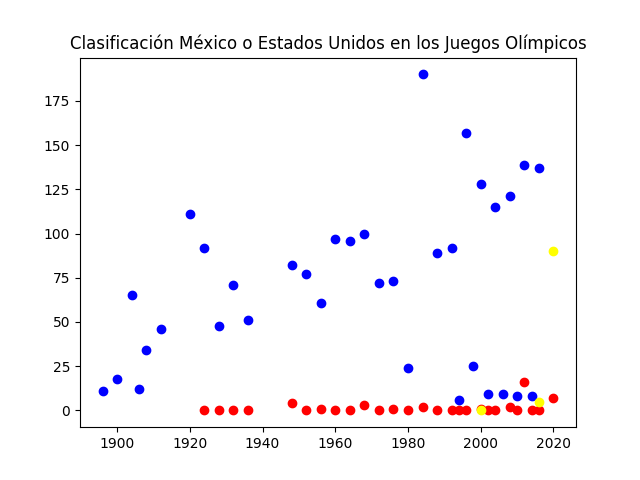
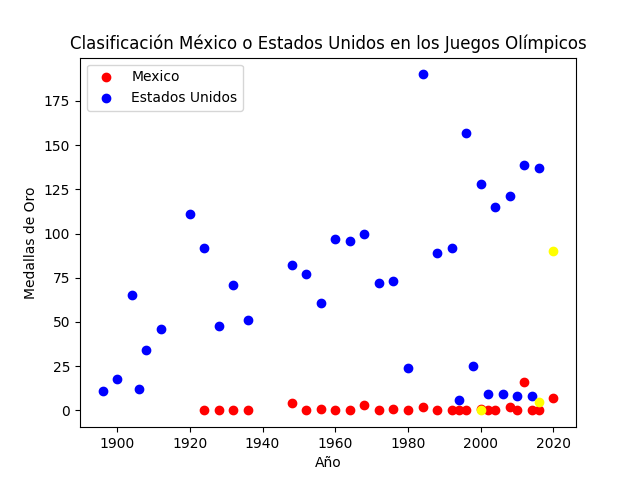
practica 6

Changed region(s): [[0.1562, 0.125, 0.375, 0.2188], [0.0312, 0.375, 0.0625, 0.625], [0.5, 0.9375, 0.5312, 0.9688]]

diff --git a/6-LinearRegression.py b/6-LinearRegression.py
@@ -1,0 +1,64 @@
+import numbers
+import pandas as pd
+import os
+import matplotlib.pyplot as plt
+from datetime import datetime
+from tabulate import tabulate
+import statsmodels.api as sm
+
+def print_tabulate(df: pd.DataFrame):
+    print(tabulate(df, headers=df.columns, tablefmt='orgtbl'))
+
+
+def transform_dates(df,x):
+    if isinstance(df[x][0], numbers.Number):
+        return df[x]
+    else:
+        return df_usa_año_int
+
+def linear_regression(df,x,y):
+
+    fixed_x = transform_dates(df, x)
+    model= sm.OLS(df[y],sm.add_constant(fixed_x)).fit()
+    print(model.summary())
+    print(fixed_x)
+    coef = pd.read_html(model.summary().tables[1].as_html(),header=0,index_col=0)[0]['coef']
+    df.plot(x=x,y=y, kind='scatter')
+    plt.plot(df[x],[pd.DataFrame.mean(df[y]) for _ in fixed_x.items()], color='green')
+    plt.plot(df[x],[ coef.values[1] * x + coef.values[0] for _, x in fixed_x.items()], color='red')
+    plt.title("Regresion Lineal: Medallas de oro de Estados Unidos")
+    plt.xticks(rotation='vertical',fontsize=5)
+    if not os.path.exists("./graficas/Practica6"):
+        os.mkdir("./graficas/Practica6")
+    plt.savefig("./graficas/Practica6/LR.png")
+    plt.show()
+    plt.close()
+
+df = pd.read_csv('./csv/olimpicos_limpio.csv')
+#df["Juegos"] = df["Año"].astype(str) + " " + df["Temporada"]
+
+df = pd.get_dummies(df, drop_first=False, columns=['Medalla'])
+df = df.drop(['Medalla_Sin Medalla'], axis=1)
+
+df_usa = df[df["Equipo"]=="United States"]
+df_usa = df_usa.groupby(["Año"])[["Medalla_Oro"]].aggregate(pd.DataFrame.sum)
+if not os.path.exists("./csv/Practica6"):
+    os.mkdir("./csv/Practica6")
+df_usa.to_csv("csv/Practica6/usa_año_medallas_oro.csv")
+df_usa = pd.read_csv("./csv/Practica6/usa_año_medallas_oro.csv")
+
+print_tabulate(df_usa.head(50))
+
+#años = [x in range(df_usa["Año"].min(),df_usa["Año"].max()),1]
+#print(años)
+
+df_usa_año_int = df_usa["Año"] 
+#Almaceno los años como enteros para usar como los valores de X en la gráfica más adelante
+df_usa["Año"] =[datetime.strptime(str(x),"%Y")for x in df_usa["Año"]]
+
+
+
+
+
+
+linear_regression(df_usa, "Año", "Medalla_Oro")

diff --git a/9-Clustering.py b/9-Clustering.py
@@ -14,7 +14,7 @@ df_mx = df_mx.groupby(["Año"])[["Medalla_Oro"]].aggregate(pd.DataFrame.sum)
 df_usa = df_usa.groupby(["Año"])[["Medalla_Oro"]].aggregate(pd.DataFrame.sum)
 
 if not os.path.exists("./csv/Practica9"):
-        os.mkdir("./csv/Practica9")
+    os.mkdir("./csv/Practica9")
 
 df_mx.to_csv("csv/Practica9/mx_año_medallas_oro.csv")
 df_usa.to_csv("csv/Practica9/usa_año_medallas_oro.csv")
@@ -35,12 +35,8 @@ df_usa["Pais"]=["Estados Unidos" for x in df_usa["Año"]]
 
 df = pd.concat([df_mx, df_usa], ignore_index=True)
 
-#df.drop(df[df['Medalla_Oro'] == 0].index, inplace = True)
 
 print(df)
-
-plt.scatter(df_mx["Año"], df_mx["Medalla_Oro"], c='red', label ='Mexico')
-plt.scatter(df_usa["Año"], df_usa["Medalla_Oro"], c='blue', label ='Estados Unidos')
 
 
 def distancia_euclidiana(p1: np.array, p2: np.array):
@@ -72,6 +68,8 @@ def k_means(points,k):
     if not os.path.exists("./graficas/Practica9"):
         os.mkdir("./graficas/Practica9")
     plt.savefig("./graficas/Practica9/kmeans.png")
+    plt.ylabel("Medallas de Oro")
+    plt.xlabel("Año")
     plt.show()
     plt.close()
     return mean

diff --git a/8-Classification.py b/8-Classification.py
@@ -14,7 +14,7 @@ df_mx = df_mx.groupby(["Año"])[["Medalla_Oro"]].aggregate(pd.DataFrame.sum)
 df_usa = df_usa.groupby(["Año"])[["Medalla_Oro"]].aggregate(pd.DataFrame.sum)
 
 if not os.path.exists("./csv/Practica8"):
-        os.mkdir("./csv/Practica8")
+    os.mkdir("./csv/Practica8")
 
 df_mx.to_csv("csv/Practica8/mx_año_medallas_oro.csv")
 df_usa.to_csv("csv/Practica8/usa_año_medallas_oro.csv")
@@ -39,7 +39,9 @@ print(df)
 
 plt.scatter(df_mx["Año"], df_mx["Medalla_Oro"], c='red', label ='Mexico')
 plt.scatter(df_usa["Año"], df_usa["Medalla_Oro"], c='blue', label ='Estados Unidos')
-
+plt.ylabel("Medallas de Oro")
+plt.xlabel("Año")
+plt.legend()
 
 def distancia_euclidiana(p1: np.array, p2: np.array):
     return np.sqrt(np.sum((p2 - p1) ** 2))

diff --git a/5-PruebaEstadistica.py b/5-PruebaEstadistica.py
@@ -7,7 +7,7 @@ import plotly.express as px
 
 
 if not os.path.exists("./graficas/Practica5"):
-        os.mkdir("./graficas/Practica5")
+    os.mkdir("./graficas/Practica5")
 
 
 df_medallas_equipo = pd.read_csv("./csv/Practica3/medallas_equipo.csv")
@@ -18,6 +18,7 @@ fig.write_html('./graficas/Practica5/medallas_equipo.html', auto_open=True)
 df_medallas_equipo = df_medallas_equipo.drop(['Juegos'], axis=1)
 df_medallas_equipo = df_medallas_equipo.drop(['Año'], axis=1)
 
+#Dataframe de las medallas conseguidas por cada equipo
 
 
 modl = ols("Medallas ~ Equipo", data=df_medallas_equipo).fit()
